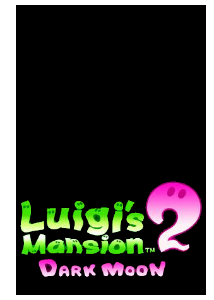
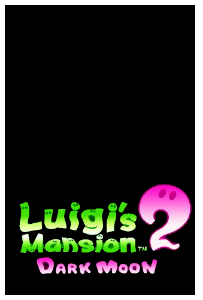
Tchecklist area: able to load Terraspark's items Database issue: fixed a "foreign key" not actually being a foreign key Image: fixed the Luigi's mansion 2 image so it doesnt have a weird invisible part

Changed region(s): [[0.0, 0.0, 0.9754, 0.99]]

diff --git a/terrariaChecklist.php b/terrariaChecklist.php
@@ -1,24 +1,77 @@
 <?php
 include_once('functions.php');
 include_once('creds.php');
-$userId = $_SESSION['user']['userId'];
-$query = "SELECT * FROM Trackers INNER JOIN Trackers_has_Users ON Trackers.idTrackers = Trackers_has_Users.Trackers_idTrackers WHERE Trackers_has_Users.Users_userId = '$userId'";
-$result = $link->query($query);
 
-while ($arraytable = $result->fetch_assoc()) {
 
-    $trackerId = $arraytable['Trackers.idTrackers'];
-    $checked = $arraytable['checked'];
+function loadTerrariaItems($link) {
 
-    if ($checked == 0) {
-        $class = 'grayscale';
-        echo "the check is 0";
-    } elseif ($checked == 1) {
-        $class = 'ungrayscale';
-        echo "the check is 1";
+    $userId = $_SESSION['user']['userId'];
+    $currentItem = 0;
+    $query = "SELECT * FROM Trackers INNER JOIN Trackers_has_Users ON Trackers.idTrackers = Trackers_has_Users.Trackers_idTrackers WHERE Trackers_has_Users.Users_userId = '$userId'";
+    $result = $link->query($query);
+    while ($arraytable = $result->fetch_assoc()) {
+
+        $trackerName = $arraytable['trackerName'];
+        $trackerId = $arraytable['Trackers_idTrackers'];
+        $checked = $arraytable['checked'];
+        $currentItem += 1;
+
+        if ($checked == 0) {
+            $class = 'grayscale';
+            echo "the check is 0";
+        } elseif ($checked == 1) {
+            $class = 'ungrayscale';
+            echo "the check is 1";
+        }
+
+
+        if ($currentItem == 1) {
+            echo '<div class="Terraspark">
+        <h1 id="terraSparkTitle">Terraspark</h1>
+
+        <div id="itemCraftGuideBar1" class="craftGuideStyle">
+
+        </div>
+        
+        <div id="createFrostspark">';
+        }
+
+        if ($currentItem > 0 && $currentItem < 4) {
+            echo '<p>
+
+                 <img class="' . $class . '" id="tracker' . $trackerId . '" src="terrariaImg/' . $trackerName . '.png" alt="' . $trackerName . '">
+
+            </p>';
+        }
+        if ($currentItem == 4) {
+            echo '</div>';
+
+            echo '<div id="createLavaWaders">';
+        }
+
+        if ($currentItem > 3 && $currentItem < 7) {
+            echo '<p>
+
+                 <img class="' . $class . '" id="tracker' . $trackerId . '" src="terrariaImg/' . $trackerName . '.png" alt="' . $trackerName . '">
+
+            </p>';
+        }
+        if ($currentItem == 7) {
+            echo '</div>';
+
+            echo '<div id="createTerraSpark">';
+            echo '<p>
+                 <img class="' . $class . '" id="tracker' . $trackerId . '" src="terrariaImg/' . $trackerName . '.png" alt="' . $trackerName . '">
+            </p>
+        
+        </div>
+
+</div>';
+        }
+
     }
-
 }
+
 ?>
 
 <!doctype html>
@@ -43,7 +96,9 @@ while ($arraytable = $result->fetch_assoc()) {
 
 <div class="pageContainer1">
 
-    <div class="Terraspark">
+    <?php loadTerrariaItems($link); ?>
+
+<!--    <div class="Terraspark">
         <h1 id="terraSparkTitle" >Terraspark</h1>
 
         <div id="itemCraftGuideBar1" class="craftGuideStyle">
@@ -61,12 +116,6 @@ while ($arraytable = $result->fetch_assoc()) {
             </p>
         </div>
 
-        <div id="createTerraSpark">
-            <p>
-                <img class="grayscale" id="tracker7" src="terrariaImg/Terraspark_Boots.png" alt="Terraspark Boots">
-            </p>
-        </div>
-
     <div id="createLavaWaders">
         <p>
             <img id="tracker4" src="terrariaImg/Obsidian_Skull.png" alt="Obsidian Skull">
@@ -77,9 +126,13 @@ while ($arraytable = $result->fetch_assoc()) {
         </p>
     </div>
 
+        <div id="createTerraSpark">
+            <p>
+                <img class="grayscale" id="tracker7" src="terrariaImg/Terraspark_Boots.png" alt="Terraspark Boots">
+            </p>
+        </div>
 
-</div>
-
+</div>-->
 
 </div>
 <div class="pageContainer2">

diff --git a/functions.php b/functions.php
@@ -319,15 +319,15 @@ function createItem($link, $itemName, $gameId) {
     {
 
         $query = "INSERT INTO Trackers(`trackerName`, Games_idGame) VALUE (?, ?)";
-        $stmt1 = mysqli_prepare($link, $query);
-        $stmt1->bind_param("si", $itemName, $gameId);
+        $stmt1 = mysqli_prepare($link, $query) or die ('Error 1');
+        $stmt1->bind_param("si", $itemName, $gameId) or die ('error bind');
         if (!$stmt1) {
             die("mysqli error: " . mysqli_error($link));
         } else {
-            mysqli_stmt_execute($stmt1);
+            mysqli_stmt_execute($stmt1)/* or die ('Error 2')*/;
 
             echo mysqli_stmt_error($stmt1);
-            mysqli_stmt_close($stmt1);
+            mysqli_stmt_close($stmt1) or die ('Erroe 3');
             /*header("Location: mainMenu.php");*/
         }
     }
